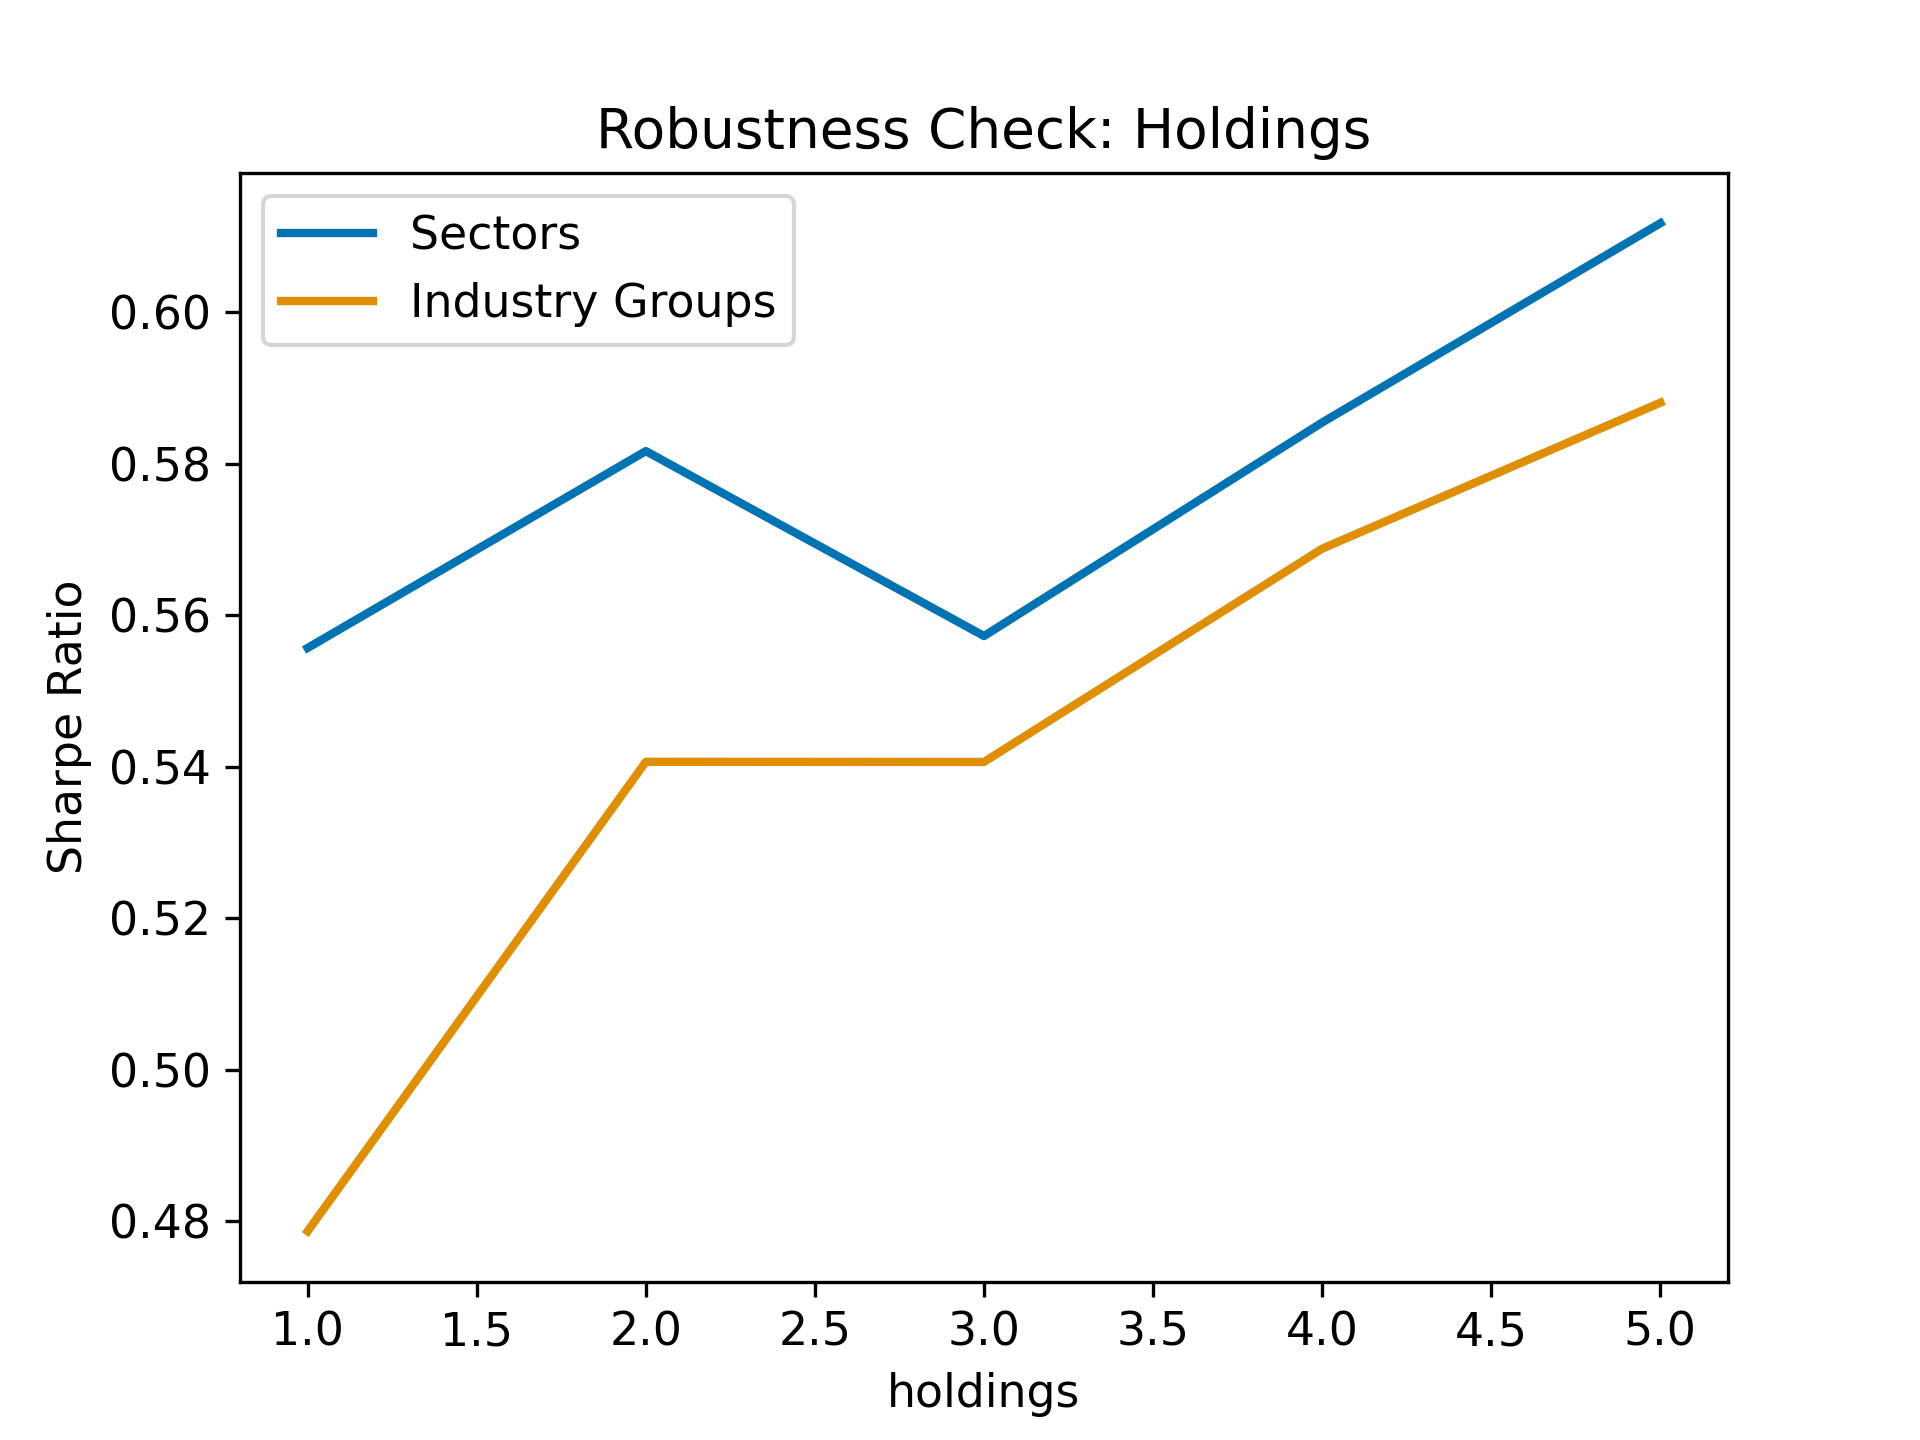
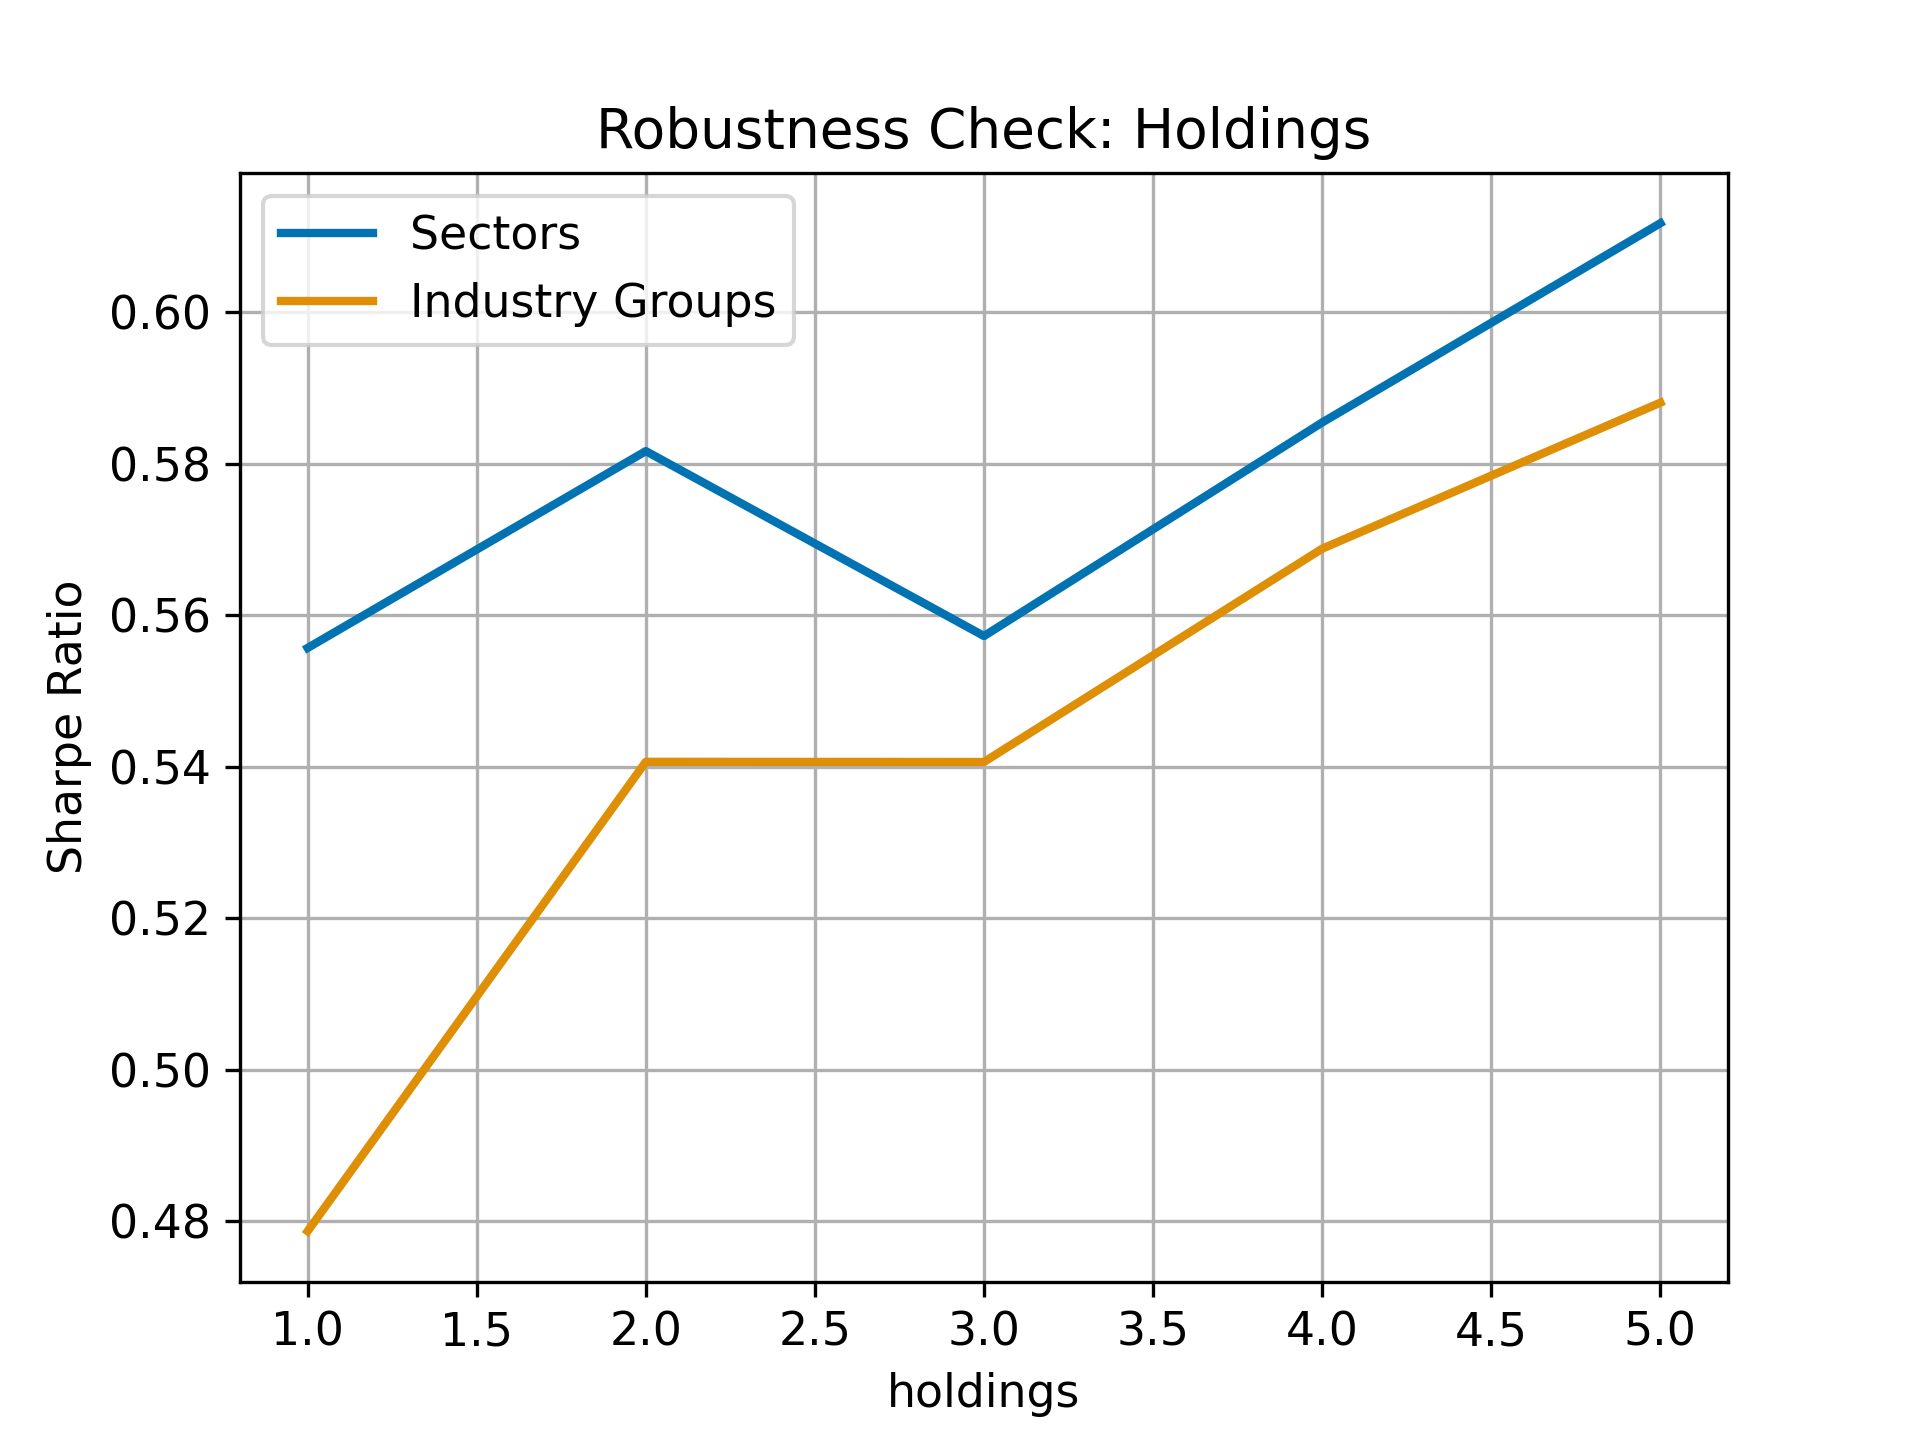
added gridlines

diff --git a/src/visualization/visualize_results.py b/src/visualization/visualize_results.py
@@ -41,12 +41,12 @@ class Visualizer:
             fig, (ax1, ax2) = plt.subplots(1, 2, figsize=(20, 6))
 
             sns.heatmap(df_weights, cmap='cividis', cbar=True, ax=ax1)
-            ax1.set_title("Heatmap of weights over months")
+            ax1.set_title("Heatmap of Sector weights over months")
             ax1.set_xlabel("Assets")
             ax1.set_ylabel("Months")
 
             sns.heatmap(df_weights_2, cmap='cividis', cbar=True, ax=ax2)
-            ax2.set_title("Heatmap of second weights over months")
+            ax2.set_title("Heatmap of Industry Group weights over months")
             ax2.set_xlabel("Assets")
             ax2.set_ylabel("Months")
 
@@ -91,6 +91,10 @@ class Visualizer:
         ax.set_title('Strategies vs. Benchmark Cumulative Returns')
         ax.legend()
 
+        # Add gridlines for horizontal and vertical axes
+        ax.grid(axis='y')
+        ax.grid(axis='x')
+
         # Format the date for monthly data
         ax.xaxis.set_major_formatter(mdates.DateFormatter('%Y-%m'))
 
@@ -116,5 +120,9 @@ class Visualizer:
         plt.xlabel(check_type.replace("_", " "))
         plt.ylabel("Sharpe Ratio")
         plt.title(f"Robustness Check: {check_type.replace('_', ' ').title()}")
+
+        # Add gridlines for horizontal and vertical axes
+        plt.grid(axis='y')
+        plt.grid(axis='x')
         
         return plt
